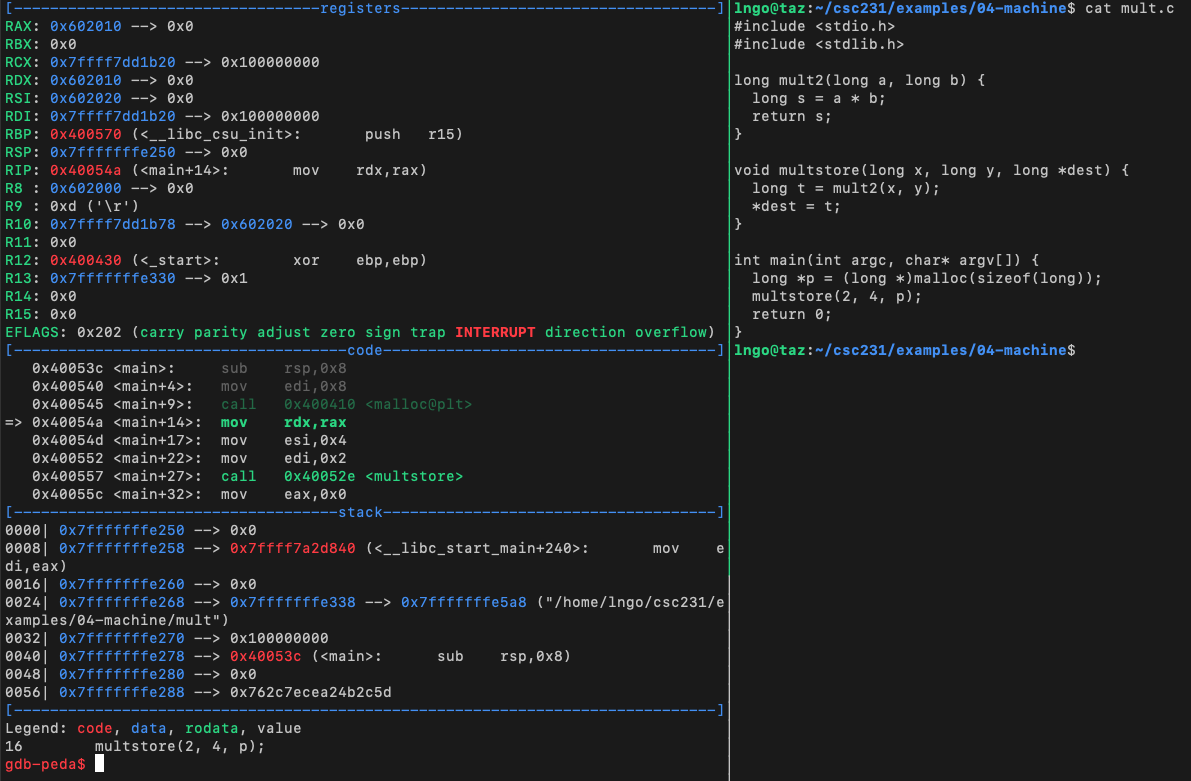
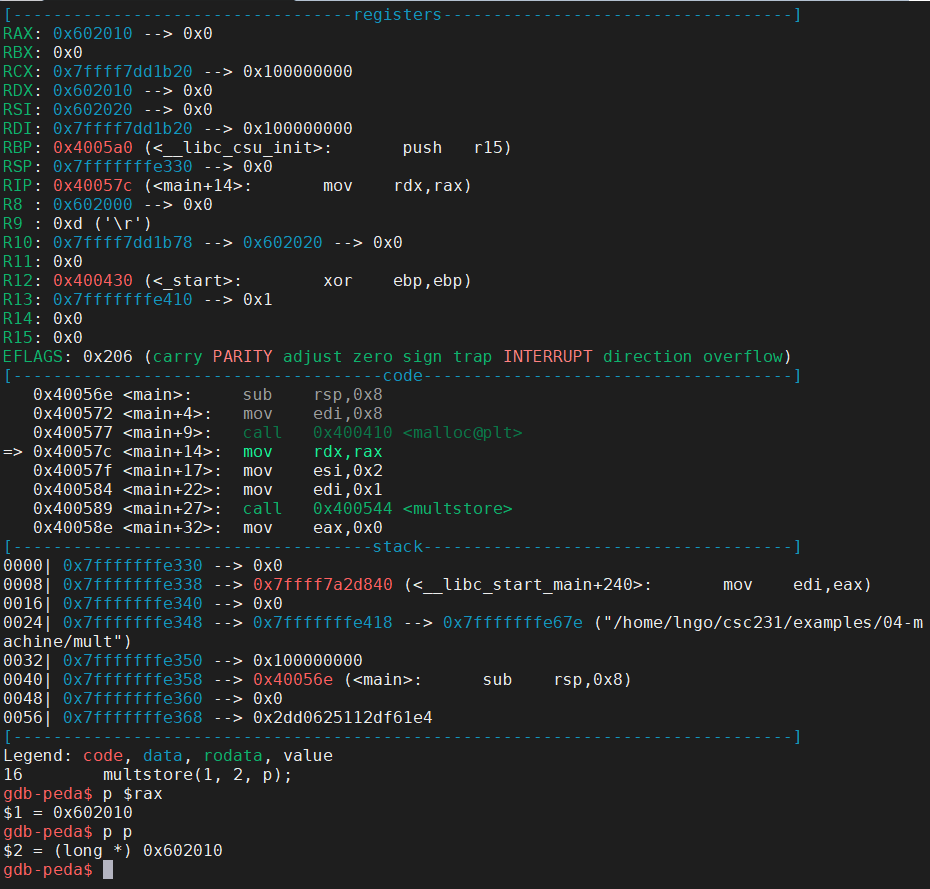
machine is done

diff --git a/_episodes/04-machine-language.md b/_episodes/04-machine-language.md
@@ -467,7 +467,7 @@ keypoints:
 
 
 
-> ## 24. Condition branches (jX)
+> ## 25. Condition branches (jX)
 >
 > - Jump to different part of code depending on condition codes
 > - Implicit reading of condition codes
@@ -489,7 +489,7 @@ keypoints:
 {: .slide}
 
 
-> ## 25. Hands on: a simple jump
+> ## 26. Hands on: a simple jump
 >
 > - Create a file named `jump.c` in `04-machine` with the following contents:
 >
@@ -511,7 +511,7 @@ keypoints:
 {: .slide}
 
 
-> ## 26. Hands on: loop
+> ## 27. Hands on: loop
 >
 > - Create a file named `fact_loop.c` in `04-machine` with the following contents:
 >
@@ -537,7 +537,7 @@ keypoints:
 {: .slide}
 
 
-> ## 27. Hands on: switch
+> ## 28. Hands on: switch
 >
 > - Create a file named `switch.c` in `04-machine` with the following contents:
 >
@@ -555,17 +555,24 @@ keypoints:
 {: .slide}
 
 
-> ## 28. Mechanisms in procedures
+> ## 29. Mechanisms in procedures
 >
+> - Function = procedure (book terminology)
+> - Support procedure `P` calls procedure `Q`. 
 > - Passing control
->   - To beginning of procedure code
->   - Back to return point
+>   - To beginning of procedure code 
+>     - starting instruction of `Q`
+>   - Back to return point 
+>     - next instruction in `P` after `Q`
 > - Passing data
 >   - Procedure arguments
+>     - `P` passes one or more parameters to `Q`. 
+>     - `Q` returns a value back to `P`. 
 >   - Return value
 > - Memory management
->   - Allocate during procedure execution
->   - Deallocate upon return
+>   - Allocate during procedure execution and de-allocate upon return
+>     - `Q` needs to allocate space for local variables and free that storage
+>     once finishes. 
 > - Mechanisms all implemented with machine instructions
 > - x86-64 implementation of a procedure uses only those mechanisms required
 > - Machine instructions implement the mechanisms, but the choices are determined by designers. 
@@ -573,21 +580,21 @@ keypoints:
 {: .slide}
 
 
-> ## 29. x86-64 stack
+> ## 30. x86-64 stack
 >
 > - Region of memory managed with stack discipline
 >   - Memory viewed as array of bytes.
 >   - Different regions have different purposes.
 >   - (Like ABI, a policy decision)
 > - Grows toward lower addresses
->   - Register `%rsp` contains **lowest stack address**. 
+>   - Register `%rsp` contains **lowest stack address**. 
 >   - address of "top" element
 >
 > <img src="../fig/04-machine/16.png" alt="stack frames" style="height:400px">
 {: .slide}
 
 
-> ## 30. Stack push and pop
+> ## 31. Stack push and pop
 > 
 > - `pushq Src`
 >   - Fetch operand at `Src`
@@ -601,37 +608,174 @@ keypoints:
 {: .slide}
 
 
-> ## 31. Hands on: function calls
+> ## 32. Hands on: function calls
 >
 > - Create a file named `mult.c` in `04-machine` with the following contents:
 >
 > <script src="https://gist.github.com/linhbngo/d1e9336a82632c528ea797210ed0f553.js?file=mult.c"></script>
 >
-> - Setup a two-column tmux terminal. 
-> - Compile with `-g` flag run `gdb` on the left panel, and view the source code of 
-> `mult.c` on the right panel.  
+> - Compile with `-g` and `-Og` flags and run `gdb` on the resulting executable.  
 >
 > ~~~
 > $ gcc -g -Og -o mult mult.c
+> $ gdb mult
 > ~~~
 > {: .language-bash}
 >
 > - Setup gdb with a breakpoint at `main` and start running. 
+> - A new GDB command is `s` or `step`: executing the next instruction (machine or code instruction). 
+>   - It will execute the highlighted (greened and arrowed) instruction in the `code` section.
+> - **Be careful, Intel notation in the code segment of GDB**
+> - Run `s` once to execute `sub rsp,0x8`
 > 
-> <img src="../fig/04-machine/18.png" alt="function" style="height:200px">
+> <img src="../fig/04-machine/18.png" alt="function" style="height:700px">
 >
-> - Press `n` twice. We are now just before the call to function `multstore`. 
-> 
-> <img src="../fig/04-machine/19.png" alt="function" style="height:400px">
-> 
-> - Press `s` to step into `multstore`, then `n` to see how we move before the `mult2` call. 
-> 
-> <img src="../fig/04-machine/19.png" alt="function" style="height:400px">
+> - Use `s` to execute the instruction: `mov edi,0x8`.
+> - The next instruction, `call 0x0400410 <malloc@plt>` is actually a function call
+> and we don't want to step into this call, so we need to use `n`: Run `n` to execute this call.  
+> - These are the instructions for the `malloc` call. 
 >
-> - Keep pressing `n` until we step back out of all functions. 
+> ~~~
+> mov edi,0x8
+> call 0x0400410 <malloc@plt>
+> ~~~
+> {: .language-assembly}
+>
+> - Pay attention to the next three instructions after `call 0x0400410 <malloc@plt`. 
+>   - Recall that the return value of malloc is placed into `%rax`.
+> - These instructions setup the parameters for the upcoming `multstore(1,2,p)` call. 
+>   - `mov rdx,rax`. 
+>   - `mov esi,0x2`
+>   - `mov edi,0x1`
+> - Also, check the values of `rax` and `p`
+>
+> ~~~
+> gdb-peda$ p $rax
+> gdb-peda$ p p
+> ~~~
+> {: .language-bash}
+>
+> - This is the value of the memory block allocated via `malloc` to contain one `long` element. 
+> - Run `s` to step into `multstore(1,2,p)`
+>
+> <img src="../fig/04-machine/19.png" alt="malloc" style="height:720px">
+> 
+> - Inside `mulstore`, we immediately prepare to launch `mult2`. 
+> - Run `s` once. This will store the value in `rdx` into `rbx`. This is to save the 
+> value in `rdx` because we need to use it later. 
+> parameters for the `mult2` call. 
+> - Procedure Data Flow:
+>   - First six parameters will be placed into `rdi`, `rsi`, `rdx`, `rcx`, `r8`, `r9`. 
+>   - The remaining parameters will be pushed on to the stack of the calling function (
+>   in this case `mulstore`).
+>   - Note that `rsp` (stack pointer of `multstore`) is currently at `0x7ffffffe320`.
+> - Run `s` to step into `mult2`. 
+>
+> <img src="../fig/04-machine/20.png" alt="multstore" style="height:700px">
+>
+> - The 7<sup>th</sup> parameter of `mult2` is pushed on to the stack frame of 
+> `multstore` and is stored at address `0x7ffffffe318`. 
+> - Function/procedure `mult2` has no local variable, hence the stack frame is 
+> almost empty. The stack pointer, `rsp`, of `mult2`, is actually pointing toward 
+> the address of the 7<sup>th</sup> parameter. 
+> - Run `s`. 
+> - The subsequence instructions (`<mult2>` through `<mult2+23>`) are for the multiplication. 
+> - The final value will be stored in `rax` to be returned to `multstore`. 
+> - Examine the two screenshots below to see how specific registers contain certain values?
+>   - `rcx`?
+>   - `r8`?
+>   - `r9`?
+>   - What is value of `rax` after `<mult2+20>`?
+>   - What is value of `rax` after `<mult2+23>`?
+>
+> <img src="../fig/04-machine/21.png" alt="mult2" style="height:700px">
+> <img src="../fig/04-machine/22.png" alt="mult2" style="height:700px">
+>
+> - Continue running `s` to finish the program. 
 {: .slide}
 
 
+> ## 33. Hands on: array and multi-dimensional arrays
+>
+> - Create a file named `array.c` in `04-machine` with the following contents:
+>
+> <script src="https://gist.github.com/linhbngo/d1e9336a82632c528ea797210ed0f553.js?file=array.c"></script>
+>
+> - Run `cat -n array.c` and remember the line number of the `printf` statement. 
+> - Compile with `-g` flag and run `gdb` on the resulting executable.  
+>
+> ~~~
+> $ cat -n array.c
+> $ gcc -g -o array array.c
+> $ gdb array
+> ~~~
+> {: .language-bash}
+>
+> - Setup gdb with a breakpoint at the line number for the `printf` statement and start running. 
+> - Run `i locals` to view all local variables. 
+> - Use `p` and variety of pointer/array syntax to view their values and addresses: `*`, `[]`, `&`. 
+> 
+> <img src="../fig/04-machine/23.png" alt="array" style="height:400px">
+>
+{: .slide}
+
+
+> ## 34. Hands on: struct
+>
+> - Create a new data type (non-primitive) that groups objects of possibly different
+> types into a single object. 
+>   - Think classes in object-oriented programming minus the methods. 
+> - Create a file named `struct.c` in `04-machine` with the following contents:
+>
+> <script src="https://gist.github.com/linhbngo/d1e9336a82632c528ea797210ed0f553.js?file=struct.c"></script>
+>
+> - Compile with `-g` flag and run `gdb` on the resulting executable.  
+>
+> ~~~
+> $ gcc -g -o struct struct.c
+> $ gdb struct
+> ~~~
+> {: .language-bash}
+>
+> - Setup gdb with a breakpoint at `main`` and start running. 
+> - Use `n` to walk through the program and answer the following questions:
+>   - How many bytes are there in the memory block allocated for variable `p`? 
+>   - How are the addresses of `x`, `y`, and `c` relative to `p`?
+>
+> <img src="../fig/04-machine/24.png" alt="struct" style="height:700px">
+>
+{: .slide}
+
+
+> ## 35. Data alignment
+>
+> - Intel recommends data to be aligned to improve memory system performance. 
+>   - K-alignment rule: Any primitive object of `K` bytes must have an address that is multiple of `K`: 1 for `char`, 2 for `short`, 4 for `int` and `float`, and 8 for `long`, `double`, and `char *`. 
+> - Create a file named `alignment.c` in `04-machine` with the following contents:
+>
+> <script src="https://gist.github.com/linhbngo/d1e9336a82632c528ea797210ed0f553.js?file=alignment.c"></script>
+>
+> - Run `cat -n alignment.c` and remember the line number of the `return` statement. 
+> - Compile with `-g` flag and run `gdb` on the resulting executable.  
+>
+> ~~~
+> $ cat -n array.c
+> $ gcc -g -o array array.c
+> $ gdb array
+> gdb-peda$ b 17
+> gdb-peda$ run
+> ~~~
+> {: .language-bash}
+>
+> - Run `i locals` to view all local variables. 
+> - Use `p` and `&` to view addresses of the three `char` array
+> variables and the `i` variable. 
+> - Why does address displacement is not an exact match between the `i` variable
+> and the next array variable versus between the array variables?
+>
+> <img src="../fig/04-machine/25.png" alt="alignment" style="height:1000px">
+>
+{: .slide}
 
 
 {% include links.md %}
